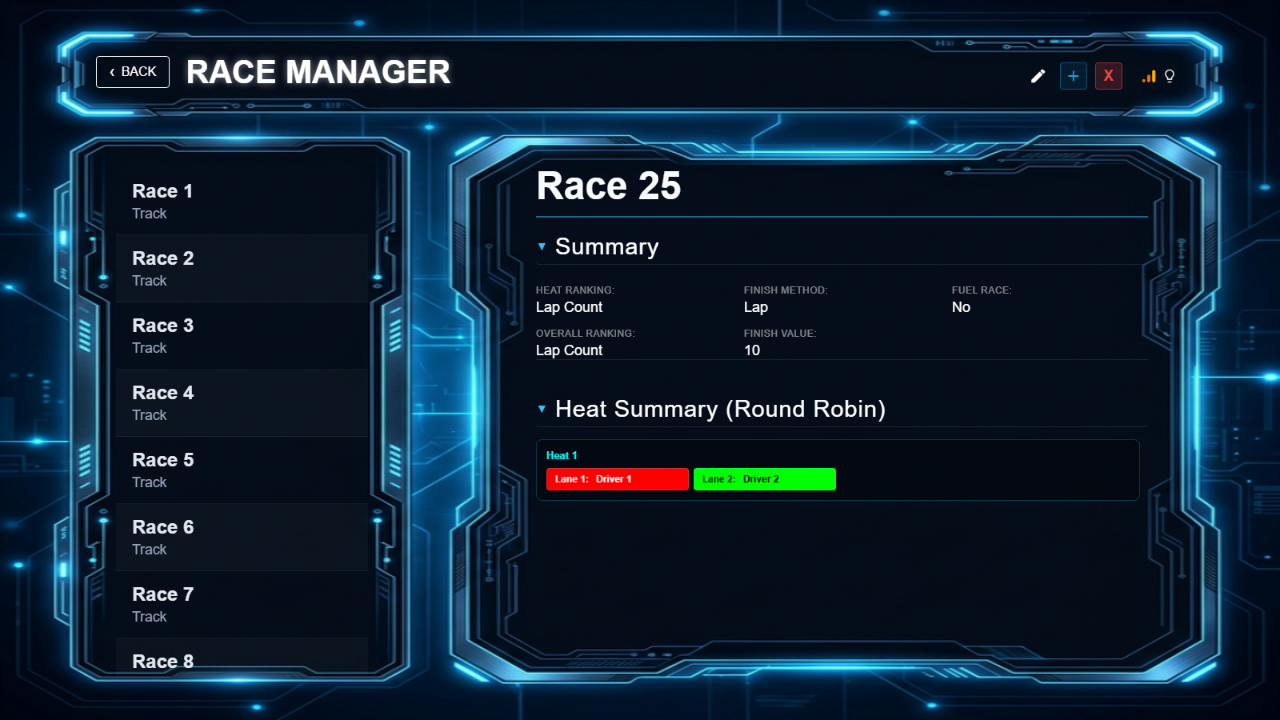
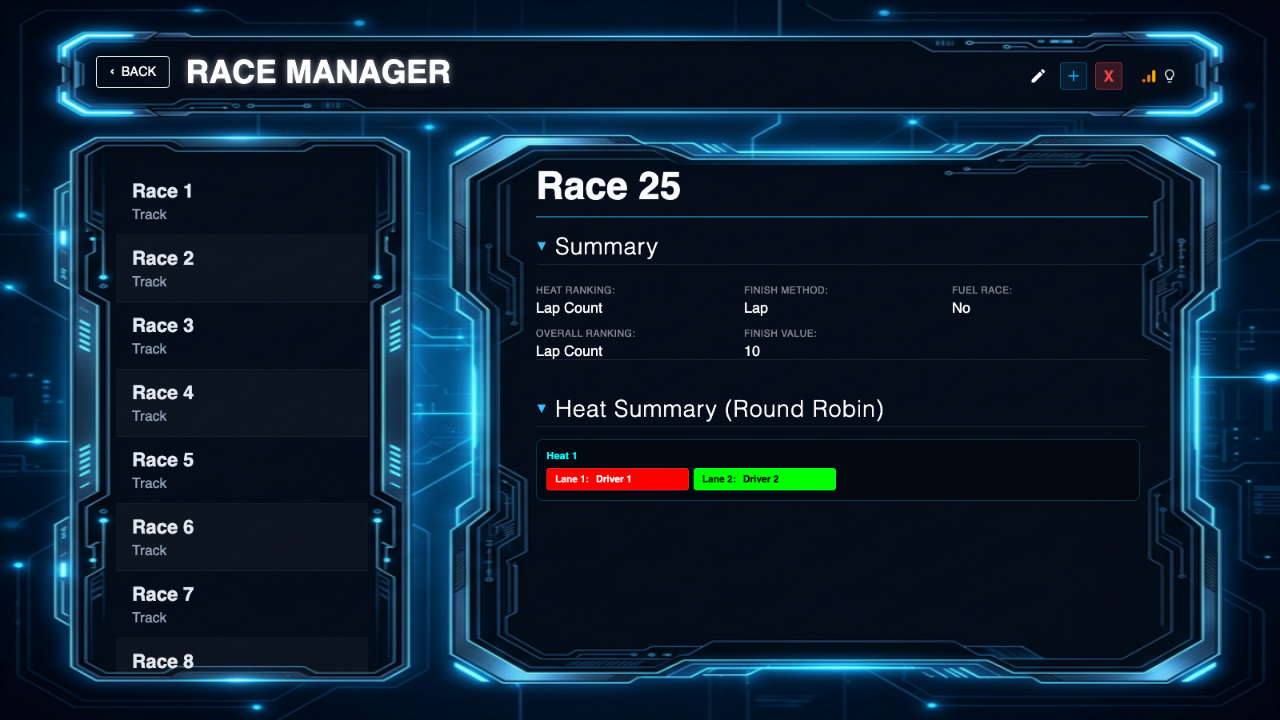
Updated screendiff tests from a pull request Updated power shell scripts to hopefully allow all the testing to run on Windows

diff --git a/client/playwright.config.ts b/client/playwright.config.ts
@@ -16,7 +16,10 @@ export default defineConfig({
   retries: process.env["CI"] ? 2 : 0,
   workers: process.env["CI"] ? 1 : "100%",
   /* Reporter to use. See https://playwright.dev/docs/test-reporters */
-  reporter: [["html"], ["json", { outputFile: "/tmp/pw-result.json" }]],
+  reporter: [
+    ["html"],
+    ["json", { outputFile: process.env["PW_REPORT_PATH"] || "pw-result.json" }],
+  ],
   /* Shared settings for all the projects below. See https://playwright.dev/docs/api/class-testoptions. */
   use: {
     /* Base URL to use in actions like `await page.goto('/')`. */

diff --git a/scripts/sync_snapshots.js b/scripts/sync_snapshots.js
@@ -1,8 +1,8 @@
 const fs = require('fs');
 const path = require('path');
 
-const REPORT_PATH = '/tmp/pw-result.json';
-const PROJECT_ROOT = process.env.CLIENT_DIR || path.resolve(__dirname, 'client');
+const PROJECT_ROOT = process.env.CLIENT_DIR || path.resolve(__dirname, '..', 'client');
+const REPORT_PATH = process.env.PW_REPORT_PATH || path.join(PROJECT_ROOT, 'pw-result.json');
 
 function findFailedSpecs(node) {
     if (!node) return [];

diff --git a/README.md b/README.md
@@ -103,27 +103,34 @@ You can run all tests across the entire project using the master script:
 
 #### Unit Tests
 Run the standard Jasmine/Karma unit tests:
-```bash
-./run_client_unit_tests.sh
-```
+
+- **Linux/Mac**: `./run_client_unit_tests.sh`
+- **Windows**: `.\run_client_unit_tests.ps1`
+
 *Note: This script automatically installs and uses a local Playwright text-to-speech compatible Chromium instance, ensuring tests run consistently regardless of your installed system browser.*
 
 #### Visual Regression Tests (Screen Diff)
 Run Playwright-based visual tests to detect UI regressions:
-```bash
-./run_client_screendiff_tests.sh
-```
+
+- **Linux/Mac**: `./run_client_screendiff_tests.sh`
+- **Windows**: `.\run_client_screendiff_tests.ps1`
+
 #### Accepting Changes (Updating Snapshots)
-If you have intentionally modified the UI and need to update the expected screenshots, run:
-```bash
-./run_client_screendiff_tests.sh --update-snapshots
-```
+If you have intentionally modified the UI and need to update the expected screenshots, you have two options:
+
+1. **Re-run and Update**: Run the tests and force an update of the snapshots. This will execute the tests again and overwrite the "expected" images with the new results.
+   - **Linux/Mac**: `./run_client_screendiff_tests.sh --update-snapshots`
+   - **Windows**: `.\run_client_screendiff_tests.ps1 --update-snapshots`
+
+2. **Sync from Last Run**: If you just ran the tests and want to promote the "actual" (failed) images from that run to "expected" without re-running everything, use the sync flag. This is much faster.
+   - **Linux/Mac**: `./run_client_screendiff_tests.sh --sync-only`
+   - **Windows**: `.\run_client_screendiff_tests.ps1 --sync-only`
 
 ### Server (Java)
 Run the JUnit tests for the backend:
-```bash
-./run_server_tests.sh
-```
+
+- **Linux/Mac**: `./run_server_tests.sh`
+- **Windows**: `.\run_server_tests.ps1`
 
 ## Debugging
 